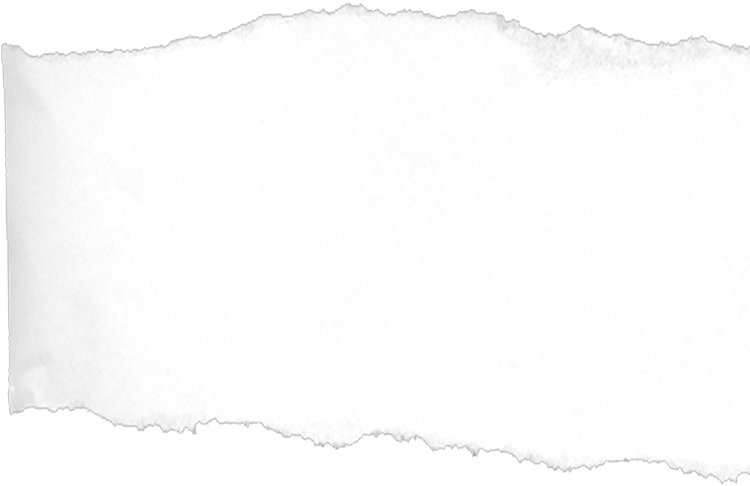
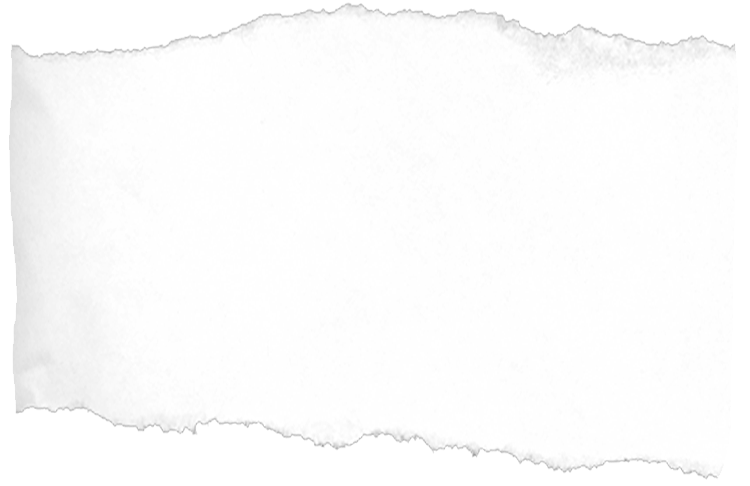
Added mask and shadow

diff --git a/web/src/components/post-details/post-details.style.tsx b/web/src/components/post-details/post-details.style.tsx
@@ -114,7 +114,17 @@ export const PostPreview = styled.div`
     }
   }
 
-
+  &:before {
+    content: '';
+    position: absolute;
+    width: 80%;
+    height: 80%;
+    background-color: #757575;
+    bottom: 5%;
+    left: 10%;
+    filter: blur(15px);
+  }
+  
   div.series {
     position:absolute;
     top: 0px;
@@ -122,7 +132,7 @@ export const PostPreview = styled.div`
 
     font-size: 12px;
     margin: 0 10px;
-    padding: 5px 10px;
+    padding: 0px 10px;
     font-family: 'Poppins';
     color: #000;
     
@@ -404,7 +414,7 @@ export const PostMetaWrapper = styled.div`
     margin-right: auto;
     width: 300px;
     padding: 10px;
-    box-shadow: 2px 2px 5px #111;
+
     
     a {
       margin: 0;

diff --git a/web/src/components/post-card-modern/post-card-modern.style.tsx b/web/src/components/post-card-modern/post-card-modern.style.tsx
@@ -12,7 +12,9 @@ export const PostPreview = styled.div`
  
   img {
     position: relative;
-
+    mask-image: url(${require("../../images/mask-inverse.png")});
+    mask-size: cover;
+    
     display: block; 
     border-radius: 3px;
     filter: grayscale(100%);

diff --git a/web/src/components/post-card-modern/post-card-modern.tsx b/web/src/components/post-card-modern/post-card-modern.tsx
@@ -92,7 +92,7 @@ const PostCardModern: React.FunctionComponent<PostCardModernProps> = ({
 
                   fluid={image.asset.fluid}
                   alt={title}
-                  backgroundColor={setColor}
+     
 
                 />)
 

diff --git a/web/src/containers/home/banner/style.tsx b/web/src/containers/home/banner/style.tsx
@@ -75,6 +75,7 @@ export const IllustrationWrapper = styled.div`
     width: 70%;
     img {
       max-width: 100%;
+  
     }
 
     @media (min-width: 991px) {
